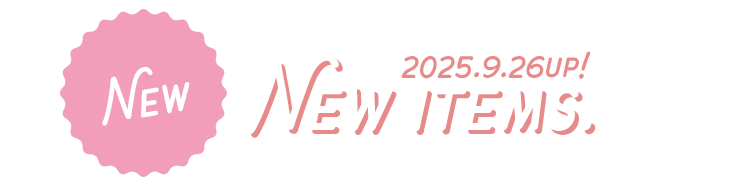
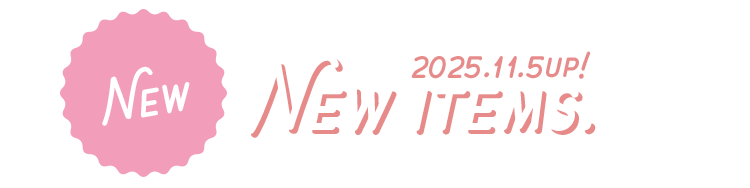
251101
nb bd up

Changed region(s): [[0.5213, 0.2926, 0.736, 0.4255]]

diff --git a/index.html b/index.html
@@ -172,31 +172,31 @@
         <a class="new_items" href="/i_and_h_mkn/new/" onclick="gtag('send','event','index','link','新着素材へのリンク', 1);"><img src="/i_and_h_mkn/img/new_items.png" loading="lazy" alt="新しく追加された素材はこちら"></a>
       </div>
       <div class="area_thumb column-3">
-        <a class="fk new" href="/i_and_h_mkn/fk/" onclick="gtag('send','event','index','link','深澤担向け素材ページへのリンク', 1);">
+        <a class="fk" href="/i_and_h_mkn/fk/" onclick="gtag('send','event','index','link','深澤担向け素材ページへのリンク', 1);">
           <div><img src="/i_and_h_mkn/img/thumb_fk.png" loading="lazy" alt="深澤担向けの素材はこちら"></div>
         </a>
-        <a class="sk new" href="/i_and_h_mkn/sk/" onclick="gtag('send','event','index','link','佐久間担向け素材ページへのリンク', 1);">
+        <a class="sk" href="/i_and_h_mkn/sk/" onclick="gtag('send','event','index','link','佐久間担向け素材ページへのリンク', 1);">
           <div><img src="/i_and_h_mkn/img/thumb_sk.png" loading="lazy" alt="佐久間担向けの素材はこちら"></div>
         </a>
-        <a class="nb new" href="/i_and_h_mkn/nb/" onclick="gtag('send','event','index','link','渡辺担向け素材ページへのリンク', 1);">
+        <a class="nb" href="/i_and_h_mkn/nb/" onclick="gtag('send','event','index','link','渡辺担向け素材ページへのリンク', 1);">
           <div><img src="/i_and_h_mkn/img/thumb_nb.png" loading="lazy" alt="渡辺担向けの素材はこちら"></div>
         </a>
-        <a class="dt new" href="/i_and_h_mkn/dt/" onclick="gtag('send','event','index','link','宮舘担向け素材ページへのリンク', 1);">
+        <a class="dt" href="/i_and_h_mkn/dt/" onclick="gtag('send','event','index','link','宮舘担向け素材ページへのリンク', 1);">
           <div><img src="/i_and_h_mkn/img/thumb_dt.png" loading="lazy" alt="宮舘担向けの素材はこちら"></div>
         </a>
-        <a class="iw new" href="/i_and_h_mkn/iw/" onclick="gtag('send','event','index','link','岩本担向け素材ページへのリンク', 1);">
+        <a class="iw" href="/i_and_h_mkn/iw/" onclick="gtag('send','event','index','link','岩本担向け素材ページへのリンク', 1);">
           <div><img src="/i_and_h_mkn/img/thumb_iw.png" loading="lazy" alt="岩本担向けの素材はこちら"></div>
         </a>
-        <a class="ab new" href="/i_and_h_mkn/ab/" onclick="gtag('send','event','index','link','阿部担向け素材ページへのリンク', 1);">
+        <a class="ab" href="/i_and_h_mkn/ab/" onclick="gtag('send','event','index','link','阿部担向け素材ページへのリンク', 1);">
           <div><img src="/i_and_h_mkn/img/thumb_ab.png" loading="lazy" alt="阿部担向けの素材はこちら"></div>
         </a>
-        <a class="kj new" href="/i_and_h_mkn/kj/" onclick="gtag('send','event','index','link','向井担向け素材ページへのリンク', 1);">
+        <a class="kj" href="/i_and_h_mkn/kj/" onclick="gtag('send','event','index','link','向井担向け素材ページへのリンク', 1);">
           <div><img src="/i_and_h_mkn/img/thumb_kj.png" loading="lazy" alt="向井担向けの素材はこちら"></div>
         </a>
-        <a class="mg new" href="/i_and_h_mkn/mg/" onclick="gtag('send','event','index','link','目黒担向け素材ページへのリンク', 1);">
+        <a class="mg" href="/i_and_h_mkn/mg/" onclick="gtag('send','event','index','link','目黒担向け素材ページへのリンク', 1);">
           <div><img src="/i_and_h_mkn/img/thumb_mg.png" loading="lazy" alt="目黒担向けの素材はこちら"></div>
         </a>
-        <a class="ru new" href="/i_and_h_mkn/ru/" onclick="gtag('send','event','index','link','ラウール担向け素材ページへのリンク', 1);">
+        <a class="ru" href="/i_and_h_mkn/ru/" onclick="gtag('send','event','index','link','ラウール担向け素材ページへのリンク', 1);">
           <div><img src="/i_and_h_mkn/img/thumb_ru.png" loading="lazy" alt="ラウール担向けの素材はこちら"></div>
         </a>
       </div>
@@ -204,7 +204,7 @@
         <a class="all" href="/i_and_h_mkn/all/" onclick="gtag('send','event','index','link','箱推し向け素材ページへのリンク', 1);">
           <div><img src="/i_and_h_mkn/img/thumb_all_text.png" loading="lazy" alt="SnowMan箱推し向けの素材はこちら"></div>
         </a>
-        <a class="archives" href="/i_and_h_mkn/archives/" onclick="gtag('send','event','index','link','記念日系素材ページへのリンク', 1);"><img src="/i_and_h_mkn/img/thumb_archives.png" loading="lazy" alt="各記念日で作成した画像のログ"></a>
+        <a class="archives new" href="/i_and_h_mkn/archives/" onclick="gtag('send','event','index','link','記念日系素材ページへのリンク', 1);"><img src="/i_and_h_mkn/img/thumb_archives.png" loading="lazy" alt="各記念日で作成した画像のログ"></a>
       </div>
     </div>
 

diff --git a/new/index.html b/new/index.html
@@ -36,19 +36,19 @@
     <p>新しく追加した素材です。<br>必ず<a href="../index.html#rules">利用規約</a>をお読みになったうえで、以下より保存してお使いください。<br>※タップすると画像だけを表示できます</p>
     <div class="section">
 
-      <!-- <div class="area_item">
-        <a id="sk2025bd" class="anchor"></a>
-        <p class="new_icon">佐久間大介誕生祭2025</p>
+      <div class="area_item">
+        <a id="nb2025bd" class="anchor"></a>
+        <p class="new_icon">渡辺翔太誕生祭2025</p>
         <div class="area_archives">
           <a href="#" class="link_hidden"><img src="#" class="img_hidden"></a>
-          <a href="/i_and_h_mkn/img/archives/20250705_ic.png" onclick="gtag('send','event','sozai-page','img-click','佐久間大介誕生祭2025 アイコン', 1);"><img src="/i_and_h_mkn/img/archives/20250705_ic.png" alt="佐久間大介誕生祭2025 アイコン"></a>
-          <a href="/i_and_h_mkn/img/archives/20250705_hd.png" onclick="gtag('send','event','sozai-page','img-click','佐久間大介誕生祭2025 ヘッダー', 1);"><img src="/i_and_h_mkn/img/archives/20250705_hd.png" alt="佐久間大介誕生祭2025 ヘッダー"></a>
+          <a href="/i_and_h_mkn/img/archives/20251105_ic.png" onclick="gtag('send','event','sozai-page','img-click','渡辺翔太誕生祭2025 アイコン', 1);"><img src="/i_and_h_mkn/img/archives/20251105_ic.png" alt="渡辺翔太誕生祭2025 アイコン"></a>
+          <a href="/i_and_h_mkn/img/archives/20251105_hd.png" onclick="gtag('send','event','sozai-page','img-click','渡辺翔太誕生祭2025 ヘッダー', 1);"><img src="/i_and_h_mkn/img/archives/20251105_hd.png" alt="渡辺翔太誕生祭2025 ヘッダー"></a>
         </div>
-      </div> -->
-    
+      </div>
+
       <div class="area_item">
         <a id="csm" class="anchor"></a>
-        <p>カリスマックス</p>
+        <p>雪だるま(溶けかけ・アイス風)</p>
         <div class="area_icon">
           <a href="/i_and_h_mkn/img/icon/fk/ic_fk_ice.png" onclick="gtag('send','event','sozai-page','img-click','image', 1);"><img src="/i_and_h_mkn/img/icon/fk/ic_fk_ice.png" alt="雪だるま風アイス 深澤辰哉 アイコン"></a>
           <a href="/i_and_h_mkn/img/icon/fk/ic_fk_sm04.png" onclick="gtag('send','event','sozai-page','img-click','image', 1);"><img src="/i_and_h_mkn/img/icon/fk/ic_fk_sm04.png" alt="溶けかけ雪だるま 深澤辰哉 アイコン"></a>

diff --git a/archives/index.html b/archives/index.html
@@ -36,7 +36,8 @@
       <form>
         <select name="menu">
           <option>こちらから選択してください</option>
-          <option value="#sk2025bd">佐久間大介誕生祭2025 [New]</option>
+          <option value="#nb2025bd">渡辺翔太誕生祭2025 [New]</option>
+          <option value="#sk2025bd">佐久間大介誕生祭2025</option>
           <option value="#ru2025bd">ラウール誕生祭2025</option>
           <option value="#kj2025bd">向井康二誕生祭2025</option>
           <option value="#iw2025bd">岩本照誕生祭2025</option>
@@ -67,8 +68,18 @@
     <p>過去に配布した誕生日や記念日等の素材です。<br>必ず<a href="../index.html#rules">利用規約</a>をお読みになったうえで、以下より保存してお使いください。<br>※タップすると画像だけを表示できます</p>
 
     <div class="area_item">
+      <a id="nb2025bd" class="anchor"></a>
+      <p class="new_icon">渡辺翔太誕生祭2025</p>
+      <div class="area_archives">
+        <a href="#" class="link_hidden"><img src="#" class="img_hidden"></a>
+        <a href="/i_and_h_mkn/img/archives/20251105_ic.png" onclick="gtag('send','event','sozai-page','img-click','渡辺翔太誕生祭2025 アイコン', 1);"><img src="/i_and_h_mkn/img/archives/20251105_ic.png" alt="渡辺翔太誕生祭2025 アイコン"></a>
+        <a href="/i_and_h_mkn/img/archives/20251105_hd.png" onclick="gtag('send','event','sozai-page','img-click','渡辺翔太誕生祭2025 ヘッダー', 1);"><img src="/i_and_h_mkn/img/archives/20251105_hd.png" alt="渡辺翔太誕生祭2025 ヘッダー"></a>
+      </div>
+    </div>
+
+    <div class="area_item">
       <a id="sk2025bd" class="anchor"></a>
-      <p class="new_icon">佐久間大介誕生祭2025</p>
+      <p>佐久間大介誕生祭2025</p>
       <div class="area_archives">
         <a href="#" class="link_hidden"><img src="#" class="img_hidden"></a>
         <a href="/i_and_h_mkn/img/archives/20250705_ic.png" onclick="gtag('send','event','sozai-page','img-click','佐久間大介誕生祭2025 アイコン', 1);"><img src="/i_and_h_mkn/img/archives/20250705_ic.png" alt="佐久間大介誕生祭2025 アイコン"></a>
